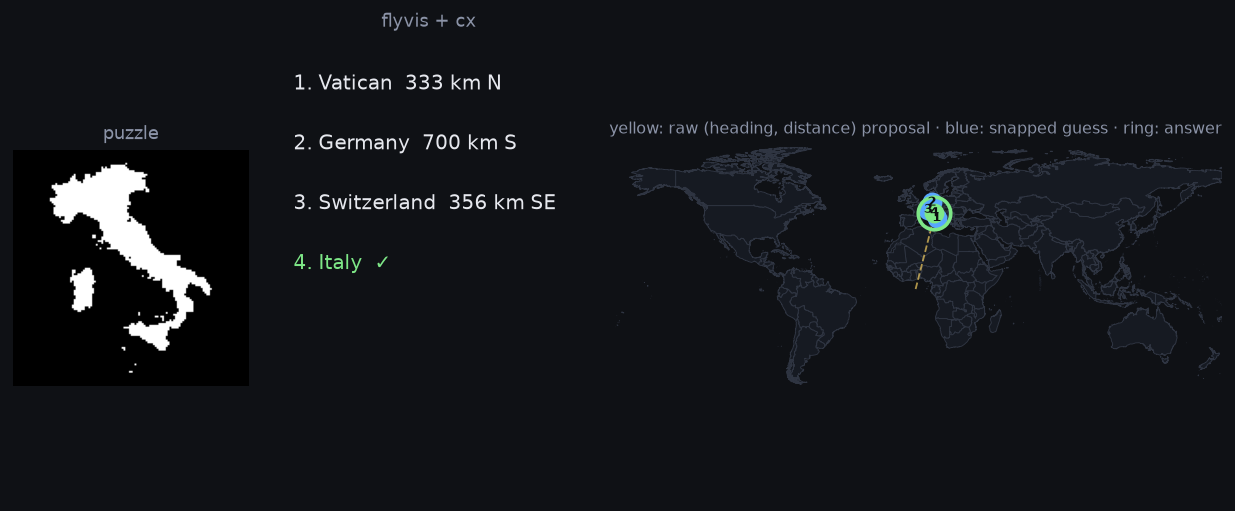
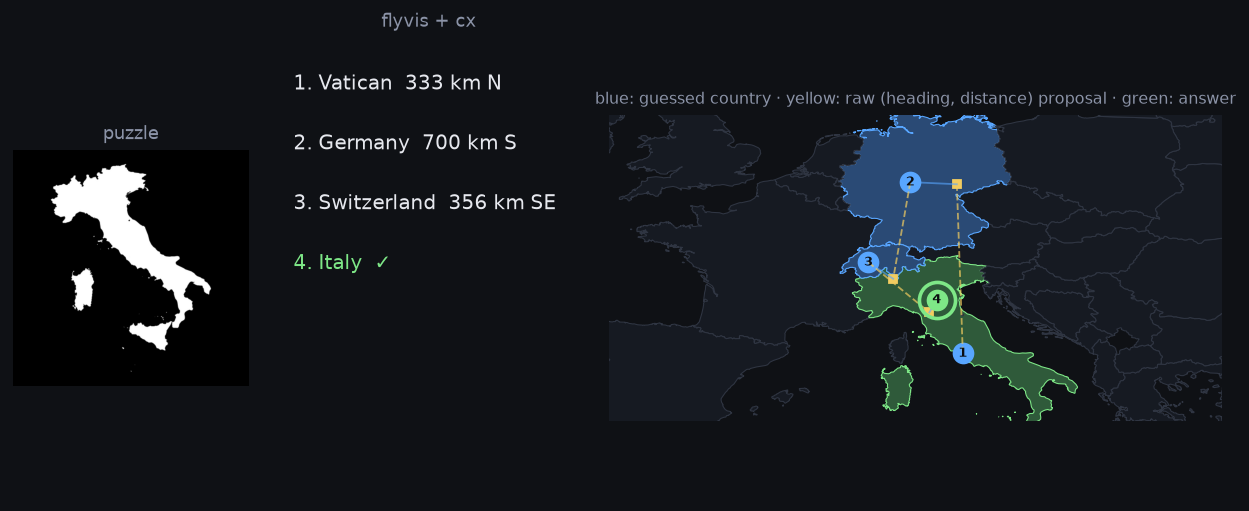
README: zoomed, anti-aliased demo figure and a plainer results discussion

diff --git a/scripts/render_episode.py b/scripts/render_episode.py
@@ -37,7 +37,7 @@ def main() -> None:
     gs = fig.add_gridspec(1, 3, width_ratios=[1, 1.15, 2.6], wspace=0.12)
 
     ax = fig.add_subplot(gs[0])
-    ax.imshow(render_silhouette(target.geometry, 128), cmap="gray", vmin=0, vmax=1)
+    ax.imshow(render_silhouette(target.geometry, 512, supersample=4), cmap="gray", vmin=0, vmax=1)
     ax.set_title("puzzle", color="#8b93a7", fontsize=10)
     ax.axis("off")
 
@@ -52,27 +52,43 @@ def main() -> None:
 
     ax = fig.add_subplot(gs[2])
     ax.set_facecolor("#0b0d11")
+    guessed = {game.countries[int(s["guess"])].code for s in steps if not s["correct"]}
     for c in game.countries:
+        fill, edge = "#161a22", "#2f3542"
+        if c.code == target.code:
+            fill, edge = "#2f5a3a", "#7ee787"
+        elif c.code in guessed:
+            fill, edge = "#2a4a75", "#58a6ff"
         polys = [c.geometry] if c.geometry.geom_type == "Polygon" else list(c.geometry.geoms)
         for poly in polys:
             x, y = poly.exterior.xy
-            ax.fill(x, y, color="#161a22", ec="#2f3542", lw=0.5)
-    prev = (0.0, 0.0)
+            ax.fill(x, y, color=fill, ec=edge, lw=0.6)
+    prev = None
+    lats, lons = [target.lat], [target.lon]
     for i, s in enumerate(steps):
         g = game.countries[int(s["guess"])]
         px, py = float(s["proposed_lon"]), float(s["proposed_lat"])
-        ax.plot([prev[0], px], [prev[1], py], color="#f2cc60", lw=1, ls="--", alpha=0.7)
-        ax.plot(px, py, "s", color="#f2cc60", ms=4)
-        ax.plot([px, g.lon], [py, g.lat], color="#58a6ff", lw=1, alpha=0.6)
-        ax.plot(g.lon, g.lat, "o", color="#7ee787" if s["correct"] else "#58a6ff", ms=10)
+        if prev is not None:
+            ax.plot([prev[0], px], [prev[1], py], color="#f2cc60", lw=1, ls="--", alpha=0.7)
+            ax.plot(px, py, "s", color="#f2cc60", ms=4)
+            ax.plot([px, g.lon], [py, g.lat], color="#58a6ff", lw=1, alpha=0.6)
+            lats.append(py)
+            lons.append(px)
+        ax.plot(g.lon, g.lat, "o", color="#7ee787" if s["correct"] else "#58a6ff", ms=11)
         ax.text(g.lon, g.lat, str(i + 1), color="#0b0d11", fontsize=7, ha="center", va="center", fontweight="bold")
         prev = (g.lon, g.lat)
-    ax.plot(target.lon, target.lat, "o", mfc="none", mec="#7ee787", ms=18, mew=2)
-    ax.set_xlim(-180, 180)
-    ax.set_ylim(-60, 85)
+        lats.append(g.lat)
+        lons.append(g.lon)
+    ax.plot(target.lon, target.lat, "o", mfc="none", mec="#7ee787", ms=20, mew=2)
+
+    # frame the area in play, like the demo does
+    span = max(max(lats) - min(lats), (max(lons) - min(lons)) / 2, 12.0) * 1.35
+    cy, cx = (max(lats) + min(lats)) / 2, (max(lons) + min(lons)) / 2
+    ax.set_xlim(cx - span, cx + span)
+    ax.set_ylim(cy - span / 2, cy + span / 2)
     ax.set_aspect("equal")
     ax.axis("off")
-    ax.set_title("yellow: raw (heading, distance) proposal · blue: snapped guess · ring: answer", color="#8b93a7", fontsize=9)
+    ax.set_title("blue: guessed country · yellow: raw (heading, distance) proposal · green: answer", color="#8b93a7", fontsize=9)
 
     a.out.parent.mkdir(parents=True, exist_ok=True)
     fig.savefig(a.out, dpi=130, bbox_inches="tight", facecolor=fig.get_facecolor())

diff --git a/README.md b/README.md
@@ -59,20 +59,27 @@ Chance first-guess accuracy is 0.5%.
 
 ![learning curves](docs/learning_curves.png)
 
-What this says, honestly:
+### What I take from this
 
-- **The feedback loop is the solved part.** Every variant learns to use "3,000 km north-west" across guesses and finds
-  the country in ~3 tries, about what a decent human does. That is the central-complex RNN doing heading integration,
-  and it works on the real wiring, on shuffled wiring, and on a random graph.
-- **The real wiring did not beat the controls on one seed.** 96% vs 95% (shuffled) vs 95% (random stub) is within
-  seed-to-seed noise; more seeds would be needed to claim anything, and I don't.
-- **Frozen fly vision is a weak silhouette recognizer.** First-guess accuracy is ~6× chance but below the pixel
-  control (3% vs 8%), and with 195 countries — many of them small islands with near-identical blobs for shapes —
-  every variant leans harder on the feedback loop than it did with 168. The optic lobe was trained to compute optic flow, not to tell Chile from Norway, and it was not
-  fine-tuned here. Recognizing shapes is not what T4/T5 cells are for; the honest result is that the fly's eyes are
-  the bottleneck, not its compass.
-- Training needed a floor on the Gaussian policy's std: with the 598-type graph, plain REINFORCE reached ~80% and then
-  collapsed to ~10% mid-run. The 32-type stub never showed this, which is a good reminder to run the controls early.
+The fly is good at the navigation half of the game and bad at the recognition half.
+
+Once it has one piece of feedback, it plays roughly like a person would: "3,000 km north-west of Saudi Arabia"
+gets turned into a sensible next guess, and it lands on the answer in three or four tries almost every time. That
+part is the central-complex RNN integrating headings, and it works whether the network is wired like the real
+central complex, wired at random with the same synapses, or is a small random graph. So I can't say the real wiring
+helps. 96% against 95% and 95% is a single-seed coin flip, and I'd want several seeds and a harder task before
+reading anything into it.
+
+The first guess is where it struggles. Three percent is about six times chance, but a plain 16×16 pixel
+downsample does better (8%), which tells me the frozen optic lobe isn't a great shape detector. That's not really a
+surprise: T4/T5 cells evolved to see motion, the model was trained to estimate optic flow, and I never fine-tuned it
+on silhouettes. Going from 168 to 195 countries made this worse for every variant, because a lot of the additions
+are small island states whose outlines are near-identical blobs at this resolution. If I were to push the project
+further, the eyes are the thing to work on, not the compass.
+
+One practical lesson: with the full 598-type graph, plain REINFORCE climbed to about 80% and then collapsed to 10%
+mid-run until I put a floor under the policy's standard deviation. The small 32-type stub never did this, which
+is a good argument for running the controls early rather than at the end.
 
 Trained checkpoints and logs for the four runs above are in [`runs/`](runs/), and the flyvis features for every
 country are cached in `data/cache/`, so the demo and evaluation work from a clone without the pretrained
